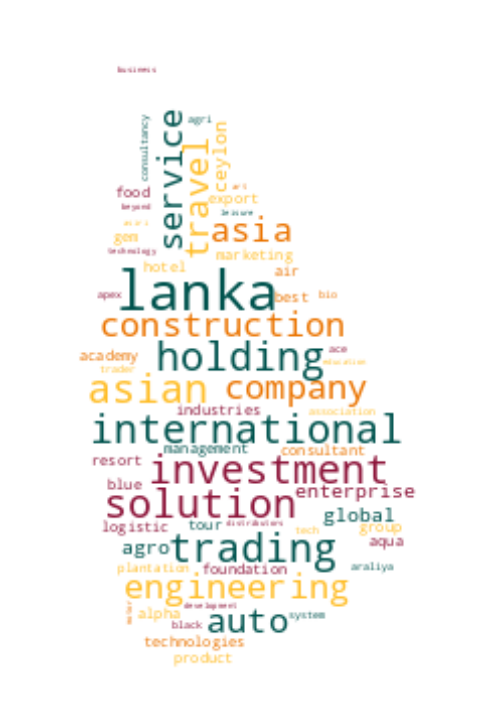
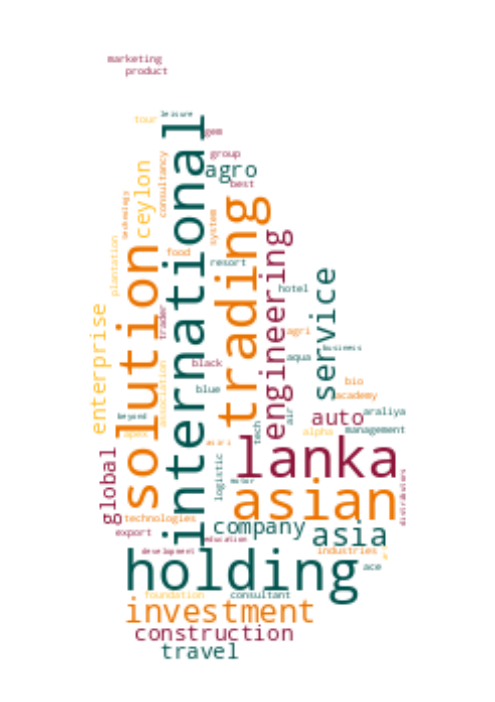
pipeline Sun Dec  3 18:24:15 UTC 2023

Changed region(s): [[0.1515, 0.1496, 0.8485, 0.9573], [0.2121, 0.0598, 0.3333, 0.1197]]

diff --git a/README.md b/README.md
@@ -4,40 +4,40 @@ Data Scraped from Registrar of Companies - Sri Lanka (https://eroc.drc.gov.lk)
 
 ![word-cloud](data/word_cloud.png)
 
-Scraped **13,127** Companies as of *2023-12-03 23:39:06*.
+Scraped **13,131** Companies as of *2023-12-03 23:54:14*.
 
 ## List of 30 Random Companies
 
-* AADIVAASI - PV00204468
-* ABE LEISURE - PV98849
-* ABSOLUTE POWER INTERNATIONAL - PV85110
-* AEGIS PINNACLE HOLDINGS - PV00237729
-* AFFINITY CONSULTING - PV00223554
-* AGRI-NET LANKA - PV21715
-* AKILAN PRINTERS - PV00253255
-* AKSI NATURAL PRODUCTS - PV00250316
-* ALOKA CONSULTANTS - PV00239516
-* ALP CONSULTING LANKA - PV00266559
-* AMNESTY INTERNATIONAL SOUTH ASIA - GA3333
-* APPLE PETFORM - PV131292
-* APPLYLEARNERS - PV00219129
-* AQUAGUARD - PV00206410
-* ARAI INTERNATIONAL - PV86157
-* ARASEASWARAN EMPIRE AGRI HARVEST & EXPORTS - PV00289277
-* ARURESSA PLANTATIONS - PV78403
-* ASEAN LLOYD'S LANKA - PV00224531
-* AURA WEALTH INTERNATIONAL - PV00275361
-* AUSTRALANKA INTERNATIONAL ACADEMY - PV00281043
-* AUTOMATION TECHNOLOGY ENGINEERING - PV127020
-* AVAARE TRAVELS - PV132085
-* BANDARAWELA COTTAGE - PV80872
-* BERNARD BOTEJUE INDUSTRIES - PV4884
-* BIBILE TRADING AND FORWARDING AGENCY - PV13313
-* BIG M TECHNOLOGIES - PV00257260
-* BLACK APPLE - PV00242960
-* BLOOMBERG HOLDINGS - PV82223
-* BLOSSOMING INTERNATIONAL - PV00247517
-* BLUXO - PV112315
+* AALIYA TRAVELS & TOURS - PV80589
+* AARIYAN CREATIONS - PV00211822
+* ABBE - PV401
+* ABEYWARDANA GROUP - PV104238
+* ACADEMY OF HOSPITALITY - PV00289266
+* ADVANCE AUTO TRADING - PV98046
+* AGAPE EDUCATION CONSULTANCY - PV00268161
+* AGGA STEELS - PV14980
+* AGSHAA ENTERPRISES - PV00283876
+* AKTAIN BROS - PV00232214
+* ALI LANKA TRAVEL AND TOURS - PV127595
+* ALLAI MURUGAN - PV00264538
+* ALLEN GREEN - PV00244445
+* ALLIED TRADING AND ENGINEERING - PV5555
+* ALLURE LEISSURE - PV00266897
+* AMOUR EXCLUSIVE DESIGNS - PV00288357
+* APAY  GENERAL TRADING - PV00233532
+* AQUA CARE TECHNOLOGIES - PV00253630
+* ARTISAN MIRIS - PV00263568
+* ARUNA CONSTRUCTIONS LANKA - PV00204272
+* ATARAH CAPITAL - PV00262943
+* AURA SALON AND FINEST CARE - PV00288128
+* AUXILLIUM QUALITY INTEGRATED SOLUTIONS - PV104824
+* AWANA CLUBS LANKA - GL2436
+* BANDARAWELA CITY GRAND HOTEL - PV00243772
+* BAPPA''S - PV122133
+* BARNES INVESTMENTS - PV1055
+* BETTA HOLDINGS - PV00283628
+* BLUE STAR REALTIES - PV60239
+* BNEATH - PV74843
 
 ## List of Early Registrations
 
